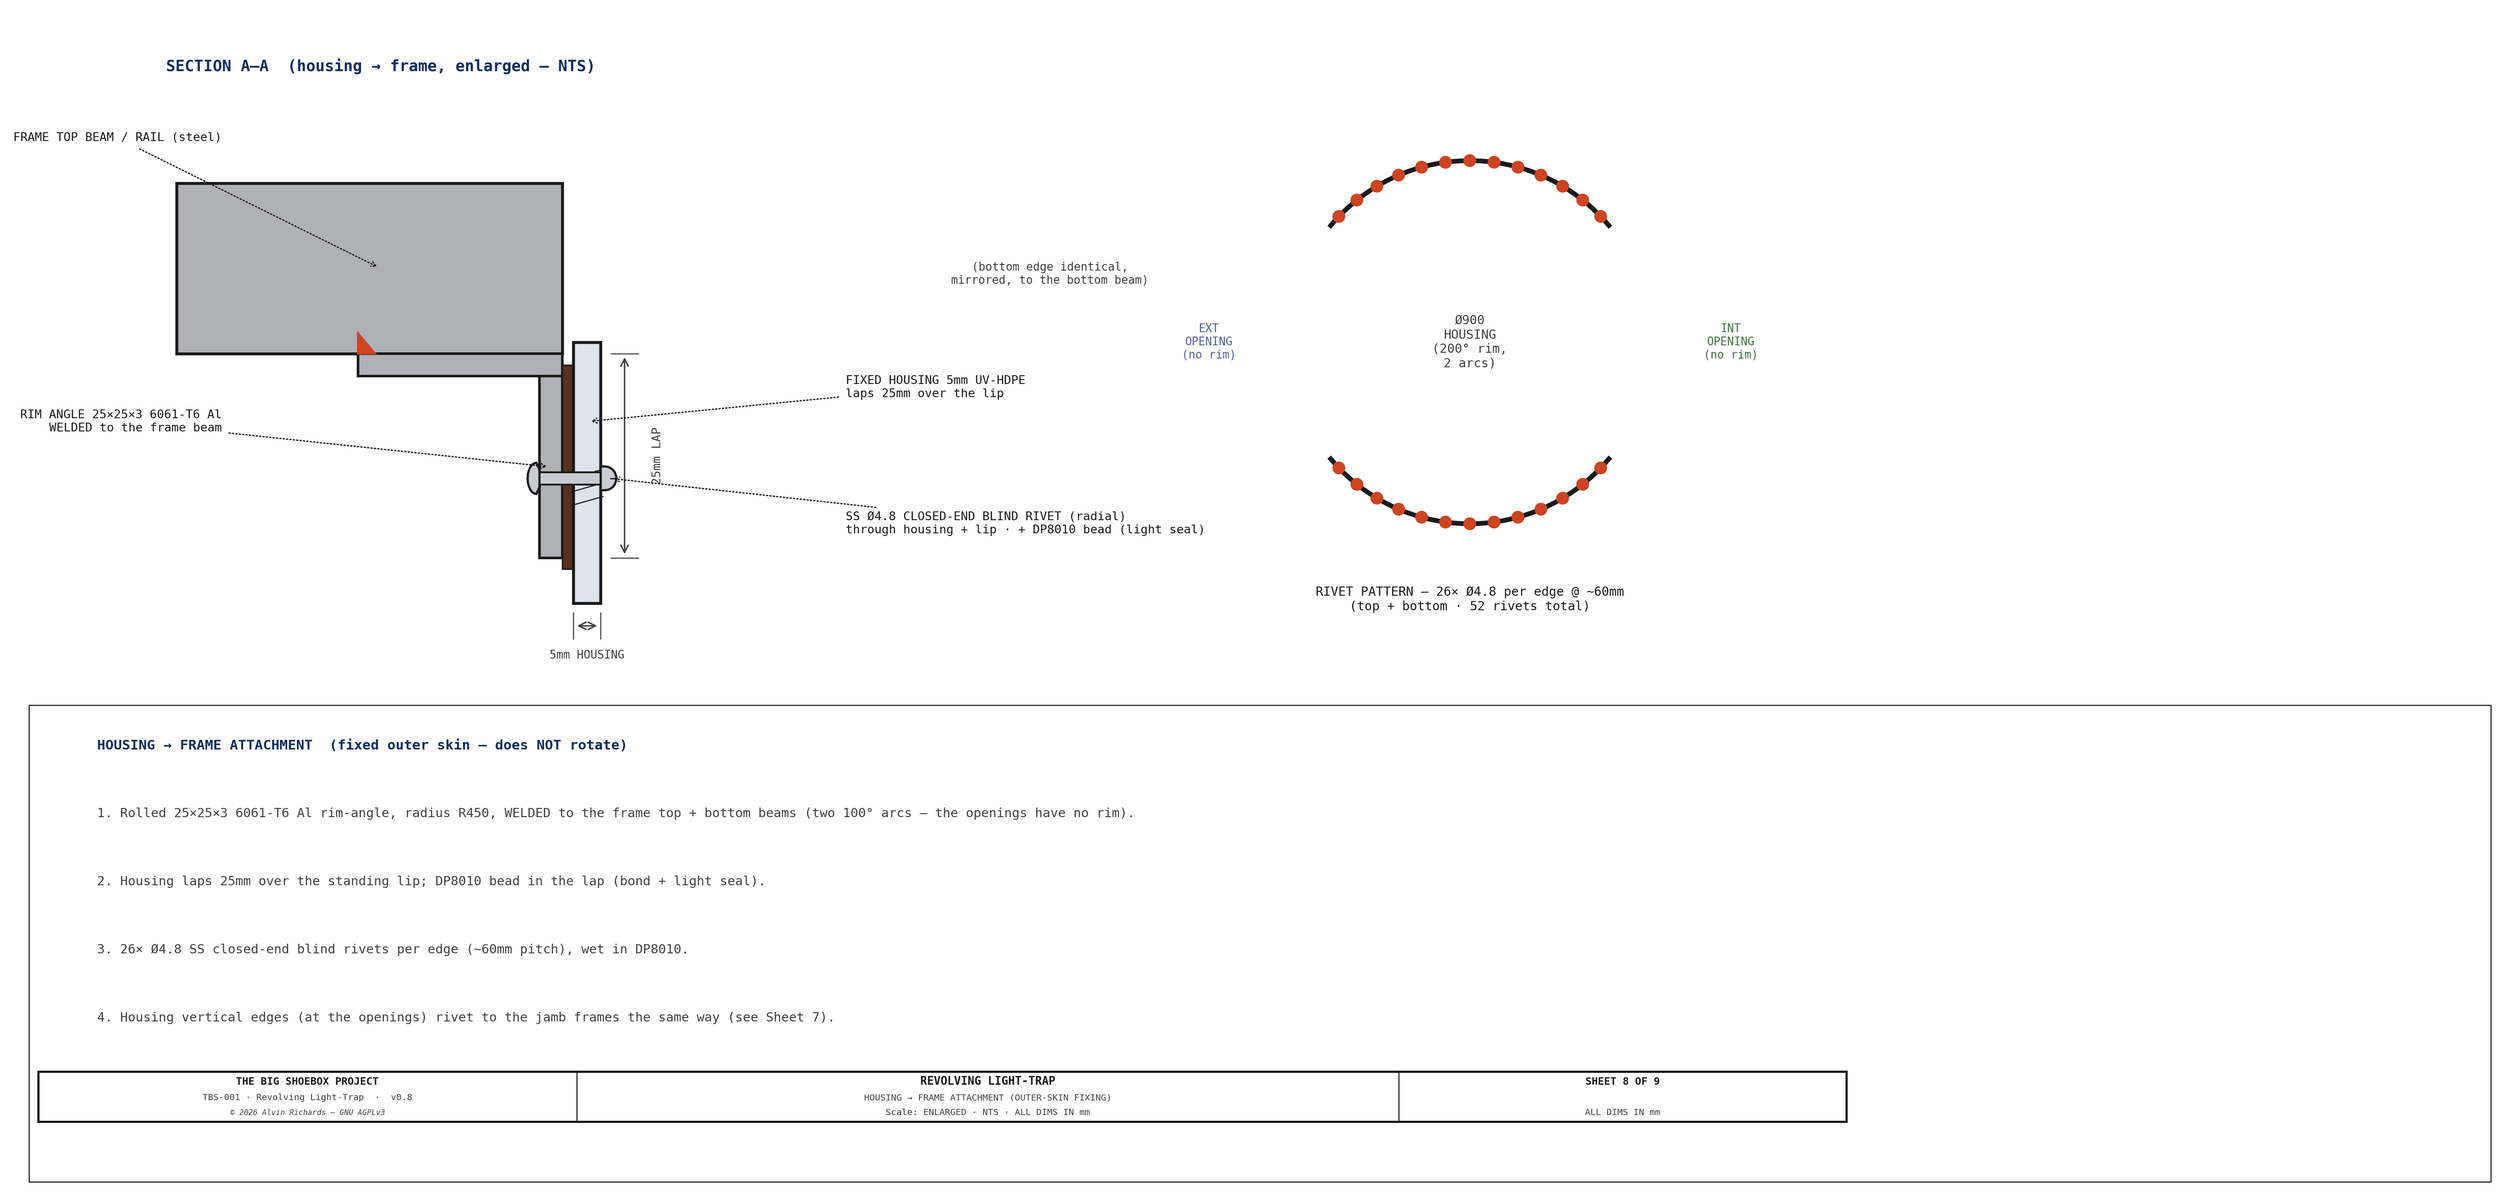
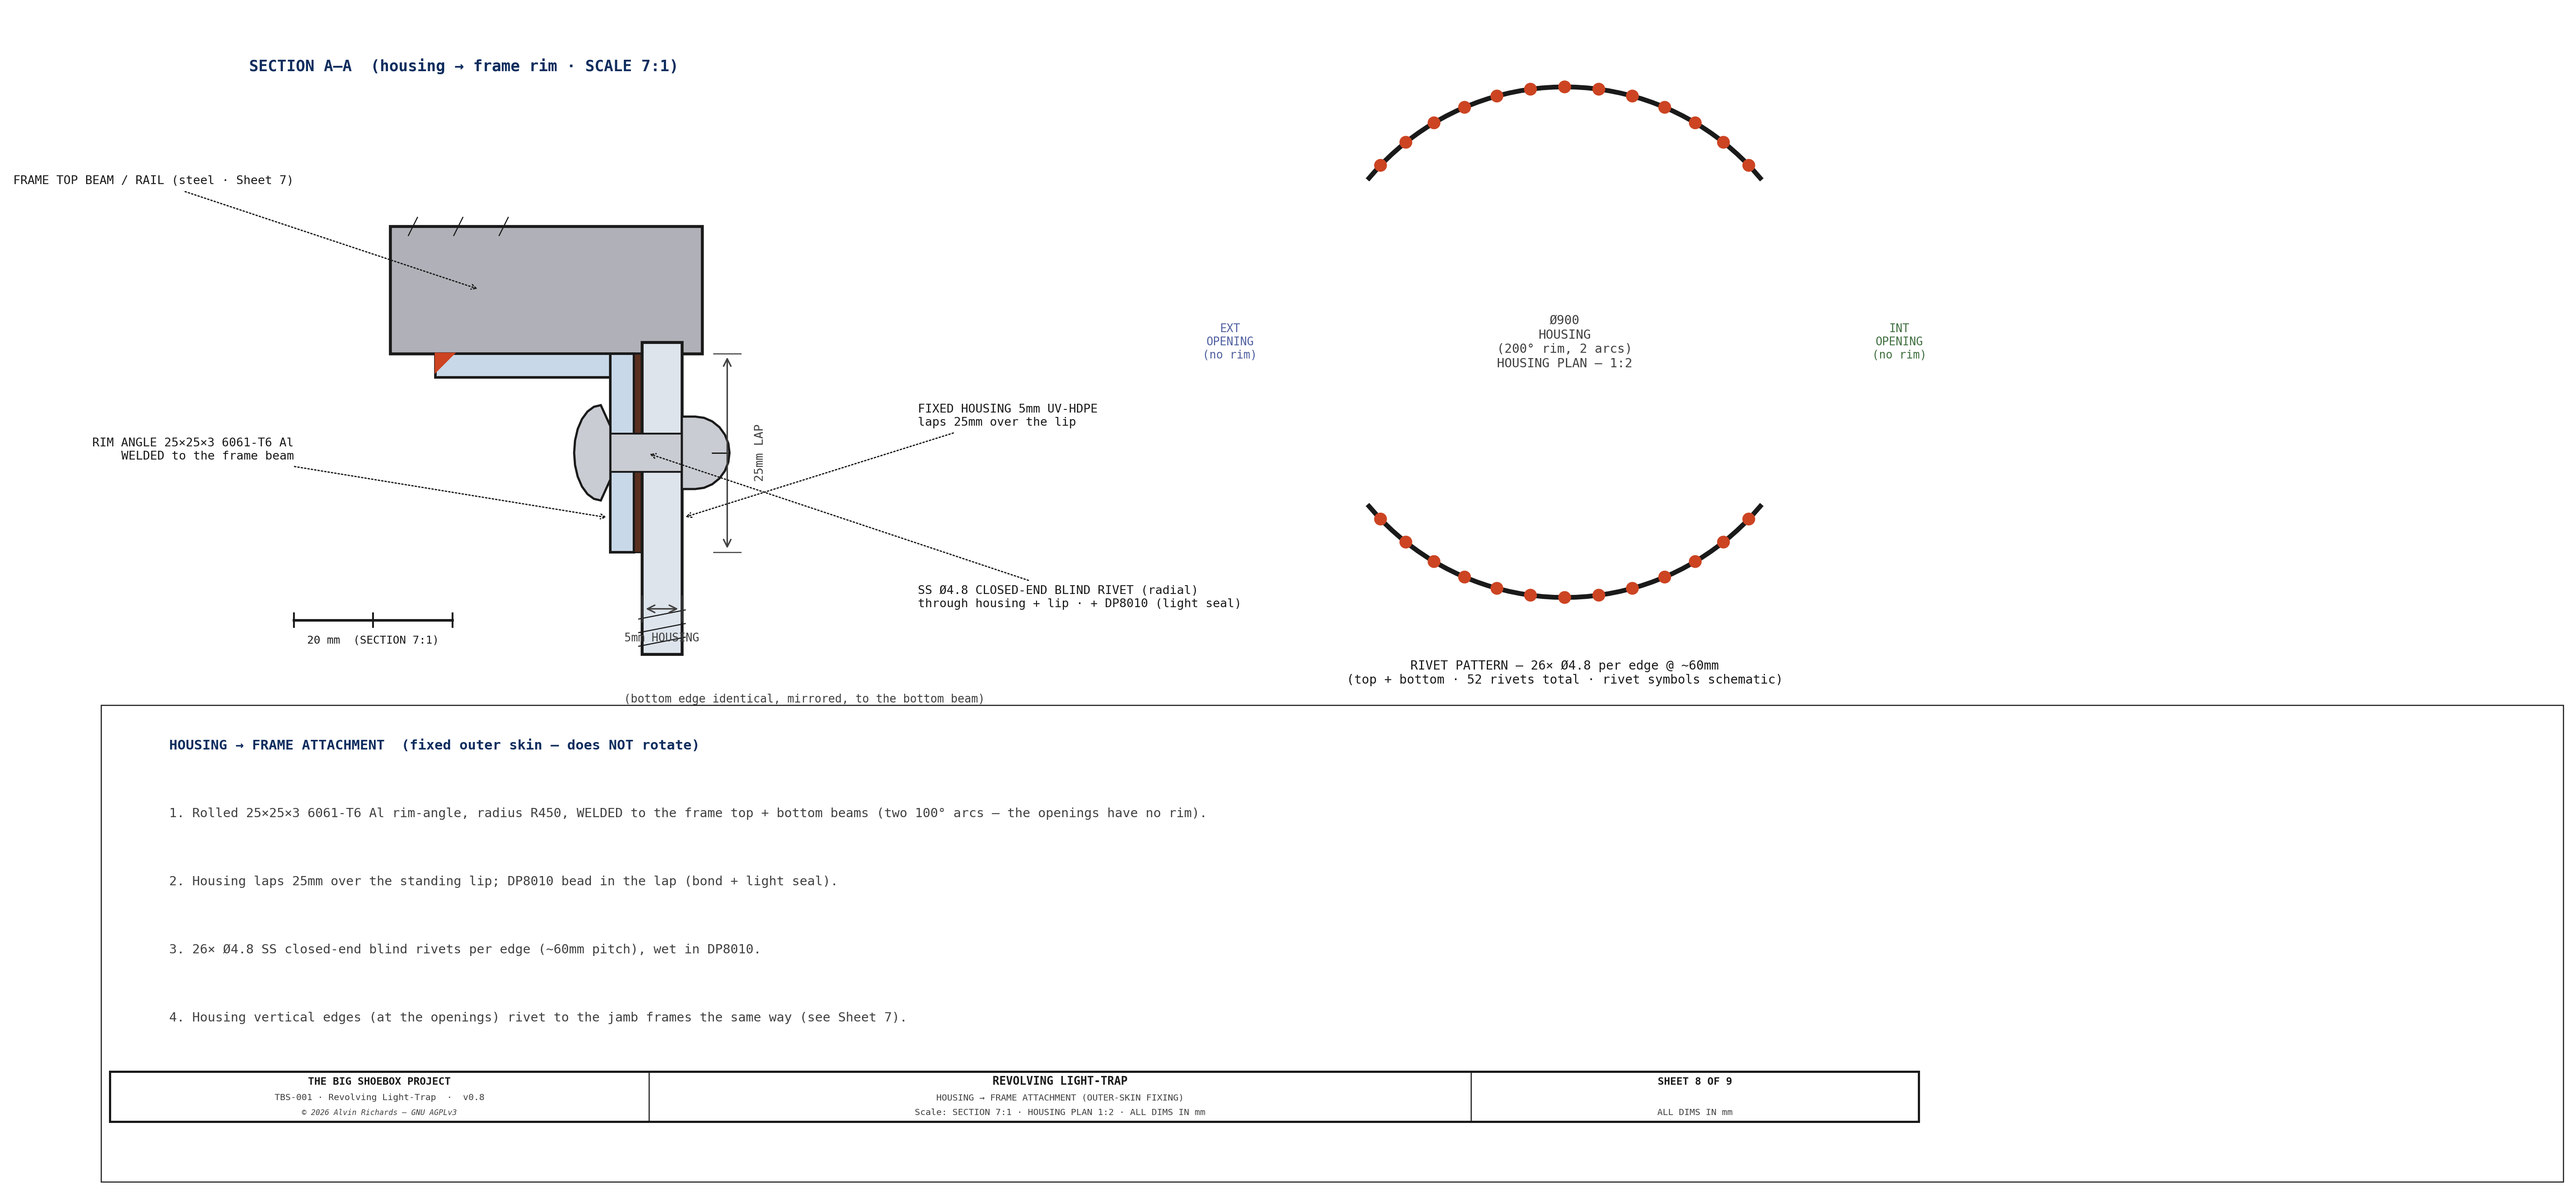
lighttrap Sheet 8: recast section to true 7:1 + HOUSING PLAN 1:2 + scale bar, fix rim-angle to Al color, drop NTS

diff --git a/src/generators/generate_lighttrap_diagram.py b/src/generators/generate_lighttrap_diagram.py
@@ -1082,37 +1082,52 @@ def draw_sheet8():
     ax.set_aspect("equal")
     ax.axis("off")
 
-    # ── SECTION A-A — housing edge → frame (enlarged, NTS) ────────────────────
-    ax.text(-160, Z_HI - 40, "SECTION A–A  (housing → frame, enlarged — NTS)",
+    # ── SECTION A-A — housing edge → frame (SCALE 7:1, isotropic) ─────────────
+    S = 7                                    # drawn = real mm × 7 (both axes)
+    LEGT = S * LT_RIM_T                        # rim-angle leg thickness (3mm)
+    LIP  = S * LT_LAP_H                        # lap / lip height (25mm)
+    DPT  = S * 1.0                             # DP8010 bead (~1mm)
+    HOUT = S * LT_HOUSING_T                    # housing thickness (5mm)
+    RIML = S * LT_RIM_LEG                      # rim flat-leg length (25mm)
+    RVD  = S * LT_RIVET_D                      # rivet Ø (4.8mm)
+    BEAMH = S * 16                             # 16mm of the frame beam shown (broken)
+    ax.text(-150, Z_HI - 40, "SECTION A–A  (housing → frame rim · SCALE 7:1)",
             ha="center", va="top", fontsize=8.5, color=TITLE_COL, fontweight="bold",
             **FONT, zorder=15)
-    FBt = 150   # frame member draw depth
-    draw_rect(ax, -340, 0, 340, FBt, fc=C_STEEL, lw=1.6, zorder=4)         # frame top beam/rail
-    draw_rect(ax, -180, -20, 180, 20, fc=C_STEEL, lw=1.4, zorder=5)        # rim-angle flat leg (welded)
-    draw_rect(ax, -20, -180, 20, 160, fc=C_STEEL, lw=1.4, zorder=5)        # rim-angle standing lip
-    ax.add_patch(mpatches.Polygon([(-180, 0), (-165, 0), (-180, 18)], closed=True,
-                                  fc="#CC4422", ec="#CC4422", zorder=6))    # weld to frame
-    draw_rect(ax, 0, -190, 10, 180, fc=C_GASKT, lw=0.8, zorder=5)          # DP8010
-    draw_rect(ax, 10, -220, 24, 230, fc="#DDE4EC", lw=1.6, zorder=6)       # housing (5mm) laps down
-    for zz in (-200 + 70, -200 + 82, -200 + 94):                          # break line (housing continues)
-        ax.plot([8, 36], [zz - 4, zz + 4], color=C_OUT, lw=0.6, zorder=7)
-    blind_rivet(ax, 7, -110, 0, 54, d=11)          # radial rivet: housing → lip (dome outside, set from outside)
-    draw_dim_v(ax, 55, -180, 0, f"{LT_LAP_H}mm LAP", offset=40, fs=6.5, right=True, font=FONT)
-    draw_dim_h(ax, 10, 34, -240, f"{LT_HOUSING_T}mm HOUSING", offset=38, fs=6.2,
+    draw_rect(ax, -RIML - 40, 0, RIML + 100, BEAMH, fc=C_STEEL, lw=1.6, zorder=4)  # frame beam (broken)
+    for xx in (-RIML - 20, -RIML + 20, -RIML + 60):                              # break line (beam continues up)
+        ax.plot([xx - 4, xx + 4], [BEAMH - 8, BEAMH + 8], color=C_OUT, lw=0.6, zorder=7)
+    draw_rect(ax, -RIML, -LEGT, RIML, LEGT, fc=C_ALUM, lw=1.4, zorder=5)          # rim flat leg (welded under beam)
+    draw_rect(ax, -LEGT, -LIP, LEGT, LIP, fc=C_ALUM, lw=1.4, zorder=5)            # standing lip (down)
+    ax.add_patch(mpatches.Polygon([(-RIML, 0), (-RIML + 16, 0), (-RIML, -16)], closed=True,
+                                  fc="#CC4422", ec="#CC4422", zorder=6))          # weld to beam
+    draw_rect(ax, 0, -LIP, DPT, LIP, fc=C_GASKT, lw=0.8, zorder=5)                # DP8010 bead
+    draw_rect(ax, DPT, -LIP - 90, HOUT, LIP + 100, fc="#DDE4EC", lw=1.6, zorder=6)  # housing laps down (broken)
+    for zz in (-LIP - 55, -LIP - 67, -LIP - 79):                                 # break line (housing continues down)
+        ax.plot([DPT - 3, DPT + HOUT + 3], [zz - 4, zz + 4], color=C_OUT, lw=0.6, zorder=7)
+    blind_rivet(ax, (DPT + HOUT - LEGT) / 2, -LIP / 2, 0, S * (LT_HOUSING_T + 1 + LT_RIM_T), d=RVD)  # radial housing → lip rivet
+    draw_dim_v(ax, DPT + HOUT + 40, -LIP, 0, f"{LT_LAP_H}mm LAP", offset=40, fs=6.5, right=True, font=FONT)
+    draw_dim_h(ax, DPT, DPT + HOUT, -LIP - 50, f"{LT_HOUSING_T}mm HOUSING", offset=38, fs=6.2,
                above=False, font=FONT)
-    leader(ax, -10, -100, -300, -60, "RIM ANGLE 25×25×3 6061-T6 Al\nWELDED to the frame beam",
+    leader(ax, -LEGT, -LIP + 30, -300, -LIP + 90, "RIM ANGLE 25×25×3 6061-T6 Al\nWELDED to the frame beam",
            fs=6.5, color=C_OUT, ha="right", arrow_style="->", font=FONT)
-    leader(ax, 22, -60, 250, -30, f"FIXED HOUSING {LT_HOUSING_T}mm UV-HDPE\nlaps {LT_LAP_H}mm over the lip",
+    leader(ax, DPT + HOUT, -LIP + 30, 250, -55, f"FIXED HOUSING {LT_HOUSING_T}mm UV-HDPE\nlaps {LT_LAP_H}mm over the lip",
            fs=6.5, color=C_OUT, ha="left", arrow_style="->", font=FONT)
-    leader(ax, 42, -110, 250, -150, f"SS Ø{LT_RIVET_D} CLOSED-END BLIND RIVET (radial)\nthrough housing + lip · + DP8010 bead (light seal)",
+    leader(ax, (DPT + HOUT - LEGT) / 2, -LIP / 2, 250, -215, f"SS Ø{LT_RIVET_D} CLOSED-END BLIND RIVET (radial)\nthrough housing + lip · + DP8010 (light seal)",
            fs=6.5, color=C_OUT, ha="left", arrow_style="->", font=FONT)
-    leader(ax, -160, FBt / 2, -300, FBt + 40, "FRAME TOP BEAM / RAIL (steel)",
+    leader(ax, -RIML + 40, BEAMH / 2, -300, BEAMH + 40, "FRAME TOP BEAM / RAIL (steel · Sheet 7)",
            fs=6.5, color=C_OUT, ha="right", arrow_style="->", font=FONT)
-    ax.text(430, 70, "(bottom edge identical,\nmirrored, to the bottom beam)",
+    ax.text(150, -LIP - 130, "(bottom edge identical, mirrored, to the bottom beam)",
             ha="center", va="center", fontsize=6.2, color=C_DIM, **FONT, zorder=9)
+    sbx, sbz = -300, -LIP - 60                                                   # section scale bar (20mm)
+    ax.plot([sbx, sbx + S * 20], [sbz, sbz], color=C_OUT, lw=1.4, zorder=8)
+    for xt in (sbx, sbx + S * 10, sbx + S * 20):
+        ax.plot([xt, xt], [sbz - 6, sbz + 6], color=C_OUT, lw=1.0, zorder=8)
+    ax.text(sbx + S * 10, sbz - 13, "20 mm  (SECTION 7:1)", ha="center", va="top",
+            fontsize=6, color=C_OUT, **FONT, zorder=8)
 
     # ── PLAN — housing footprint (200° material, two 100° arcs) + rivets ──────
-    pcx, pcz, pr = 800, 10, 160
+    pcx, pcz, pr = 820, 10, LT_HOUSING_R / 2
     oh = LT_OPENING_DEG / 2
 
     def arc(cx, cz, r, gapc, gapd, color, lw, z=6):
@@ -1136,11 +1151,11 @@ def draw_sheet8():
         ax.text(pcx + (pr + 70) * math.cos(math.radians(oc)),
                 pcz + (pr + 70) * math.sin(math.radians(oc)), f"{tag}\nOPENING\n(no rim)",
                 ha="center", va="center", fontsize=6.2, color=col, **FONT, zorder=8)
-    ax.text(pcx, pcz, f"Ø{DRUM_D}\nHOUSING\n({LT_HOUSING_ARC}° rim,\n2 arcs)", ha="center",
+    ax.text(pcx, pcz, f"Ø{DRUM_D}\nHOUSING\n({LT_HOUSING_ARC}° rim, 2 arcs)\nHOUSING PLAN — 1:2", ha="center",
             va="center", fontsize=6.8, color=C_DIM, **FONT, zorder=8)
     ax.text(pcx, pcz - pr - 55,
             f"RIVET PATTERN — {LT_HOUSING_RIVET_N}× Ø{LT_RIVET_D} per edge @ ~{LT_RIVET_PITCH}mm\n"
-            f"(top + bottom · {2 * LT_HOUSING_RIVET_N} rivets total)", ha="center", va="top",
+            f"(top + bottom · {2 * LT_HOUSING_RIVET_N} rivets total · rivet symbols schematic)", ha="center", va="top",
             fontsize=6.8, color=C_OUT, **FONT, zorder=8)
 
     notes = [
@@ -1149,14 +1164,14 @@ def draw_sheet8():
         f"2. Housing laps {LT_LAP_H}mm over the standing lip; DP8010 bead in the lap (bond + light seal).",
         f"3. {LT_HOUSING_RIVET_N}× Ø{LT_RIVET_D} SS closed-end blind rivets per edge (~{LT_RIVET_PITCH}mm pitch), wet in DP8010.",
         "4. Housing vertical edges (at the openings) rivet to the jamb frames the same way (see Sheet 7).",
-        "ENLARGED — NOT TO SCALE · ALL DIMS IN mm",
+        "SECTION A–A 7:1 (isotropic) · HOUSING PLAN 1:2 · fastener symbols schematic · ALL DIMS IN mm",
     ]
     draw_notes(ax, notes, X_LO + 60, -340, 60, fs=7, font=FONT, width=2050,
                title_color=TITLE_COL)
 
     title_block(ax, "SHEET 8 OF 9", drawing_title="REVOLVING LIGHT-TRAP",
                 subtitle="HOUSING → FRAME ATTACHMENT (OUTER-SKIN FIXING)",
-                scale_note="ENLARGED · NTS · ALL DIMS IN mm",
+                scale_note="SECTION 7:1 · HOUSING PLAN 1:2 · ALL DIMS IN mm",
                 doc_id="TBS-001 · Revolving Light-Trap", height=0.045, scale=0.75)
     fig.savefig(os.path.join(DIAGRAMS_DIR, "lighttrap-sheet8.png"),
                 dpi=DIAGRAM_DPI, bbox_inches="tight", facecolor=BG)
